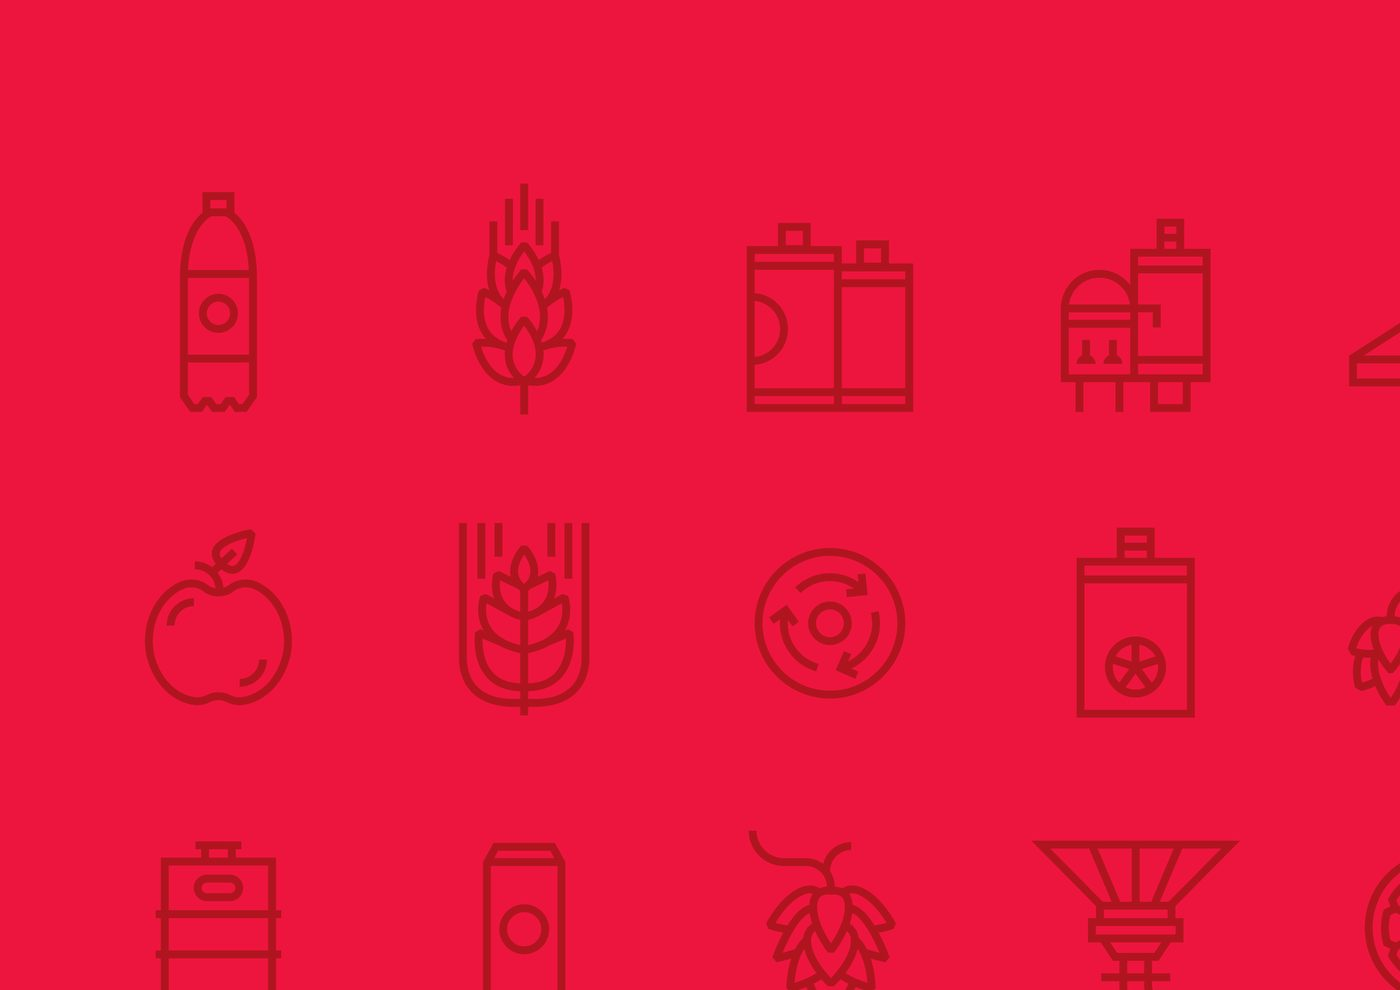
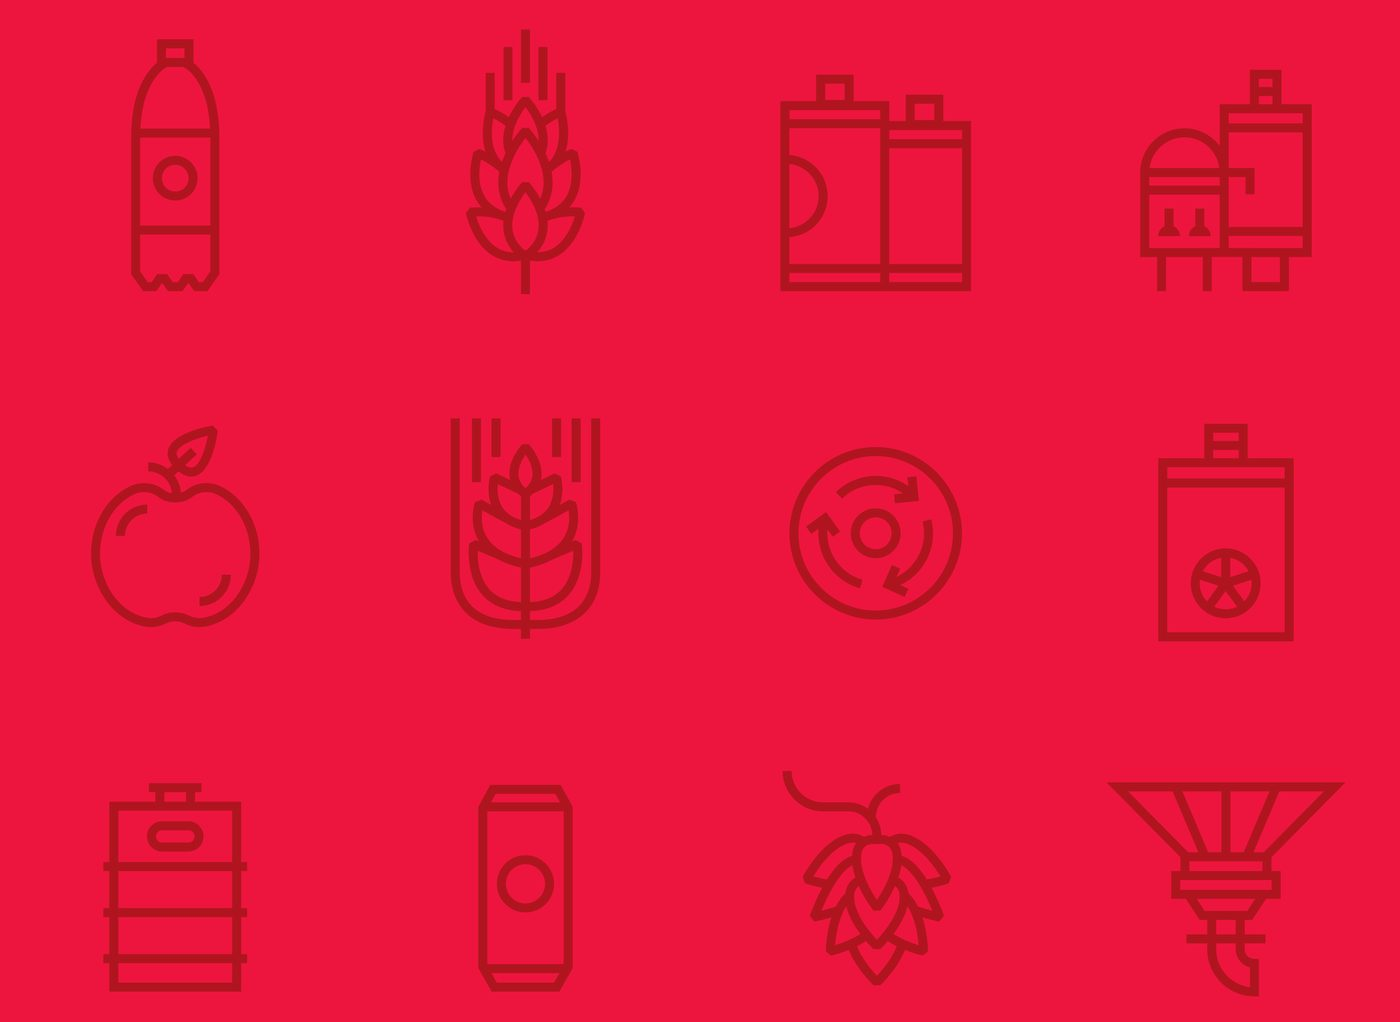
upd frontend

diff --git a/client/src/styles.css b/client/src/styles.css
@@ -495,3 +495,34 @@ td select { font: inherit; padding: 4px; border-radius: 6px; border: 1px solid v
 .trial-entry > span:last-child { display: flex; flex-direction: column; gap: 4px; }
 .trial-icon { width: 44px; height: 44px; border-radius: 12px; background: var(--red-soft); display: grid; place-items: center; flex: none; }
 .trial-icon img { width: 30px; height: 30px; }
+
+/* ---------- выравнивание сеток (замечание экспертов: «вёрстка съехала») ---------- */
+/* паттерн показывается целиком, без обрезки иконок */
+.hero-art { height: auto !important; aspect-ratio: 1400 / 1023; align-self: center; }
+.hero-art img { object-fit: contain; display: block; }
+
+/* карточки напитков одной высоты, «Запустить» на одной линии */
+.drinks { align-items: stretch; }
+.drink { height: 100%; }
+.drink small { flex: 1; }
+.drink-go { margin-top: 6px; }
+
+/* вакансии: одинаковые карточки, «Подробнее» прижато к низу, шестая ячейка — подсказка с игрой */
+.vac-card { display: flex; align-items: flex-start; gap: 14px; height: 100%; }
+.vac-card img { width: 44px; height: 44px; flex: none; }
+.vac-body { display: flex; flex-direction: column; gap: 3px; flex: 1; min-width: 0; height: 100%; }
+.vac-body .vac-more { margin-top: auto; padding-top: 8px; }
+.vac-cta { background: var(--red-soft); border-style: dashed; border-color: var(--red); }
+.vac-cta b { color: var(--red-dark); }
+
+/* условия: 6 пунктов ровной сеткой */
+.cond-grid li { display: flex; align-items: flex-start; }
+
+/* HR-панель: таблица помещается на экран ноутбука */
+.admin table { font-size: 13px; }
+.admin th, .admin td { padding: 9px 6px; }
+.admin th { white-space: normal; }
+.admin td select { font-size: 13px; max-width: 120px; }
+
+@media (min-width: 721px) { .vac-grid, .cond-grid { grid-auto-rows: 1fr; } }
+@media (max-width: 720px) { .vac-body .vac-more { margin-top: 6px; padding-top: 0; } }

diff --git a/client/src/game/Home.tsx b/client/src/game/Home.tsx
@@ -88,13 +88,22 @@ export default function Home({ onPlay, onVacancy, onApply, scrollTo, onScrolled 
             return (
               <button key={k} className="vac-card" onClick={() => onVacancy(k)}>
                 <img src={d.icon} alt="" />
-                <b>{d.title}</b>
-                <small>{d.role}</small>
-                <span className="vac-salary">{nb(d.salary)}</span>
-                <span className="vac-more">Подробнее <Icon name="arrowRight" size={14} /></span>
+                <span className="vac-body">
+                  <b>{d.title}</b>
+                  <small>{d.role}</small>
+                  <span className="vac-salary">{nb(d.salary)}</span>
+                  <span className="vac-more">Подробнее <Icon name="arrowRight" size={14} /></span>
+                </span>
               </button>
             );
           })}
+          <button className="vac-card vac-cta" onClick={() => scrollToSection('game')}>
+            <span className="vac-body">
+              <b>{home.jobs.cta.title}</b>
+              <small>{home.jobs.cta.text}</small>
+              <span className="vac-more">{home.jobs.cta.button} <Icon name="arrowRight" size={14} /></span>
+            </span>
+          </button>
         </div>
         <p className="open-day"><img src="/icons/tanks.png" alt="" /><span>{home.openDay}</span></p>
       </section>
@@ -103,7 +112,7 @@ export default function Home({ onPlay, onVacancy, onApply, scrollTo, onScrolled 
       <section className="section" id="conditions">
         <div className="section-head"><h2>{home.conditions.title}</h2></div>
         <ul className="cond-grid">
-          {content.benefits.map((b) => <li key={b}>{b}</li>)}
+          {home.conditions.items.map((b) => <li key={b}>{b}</li>)}
         </ul>
         <p className="note">{content.practicePeriod}</p>
       </section>
